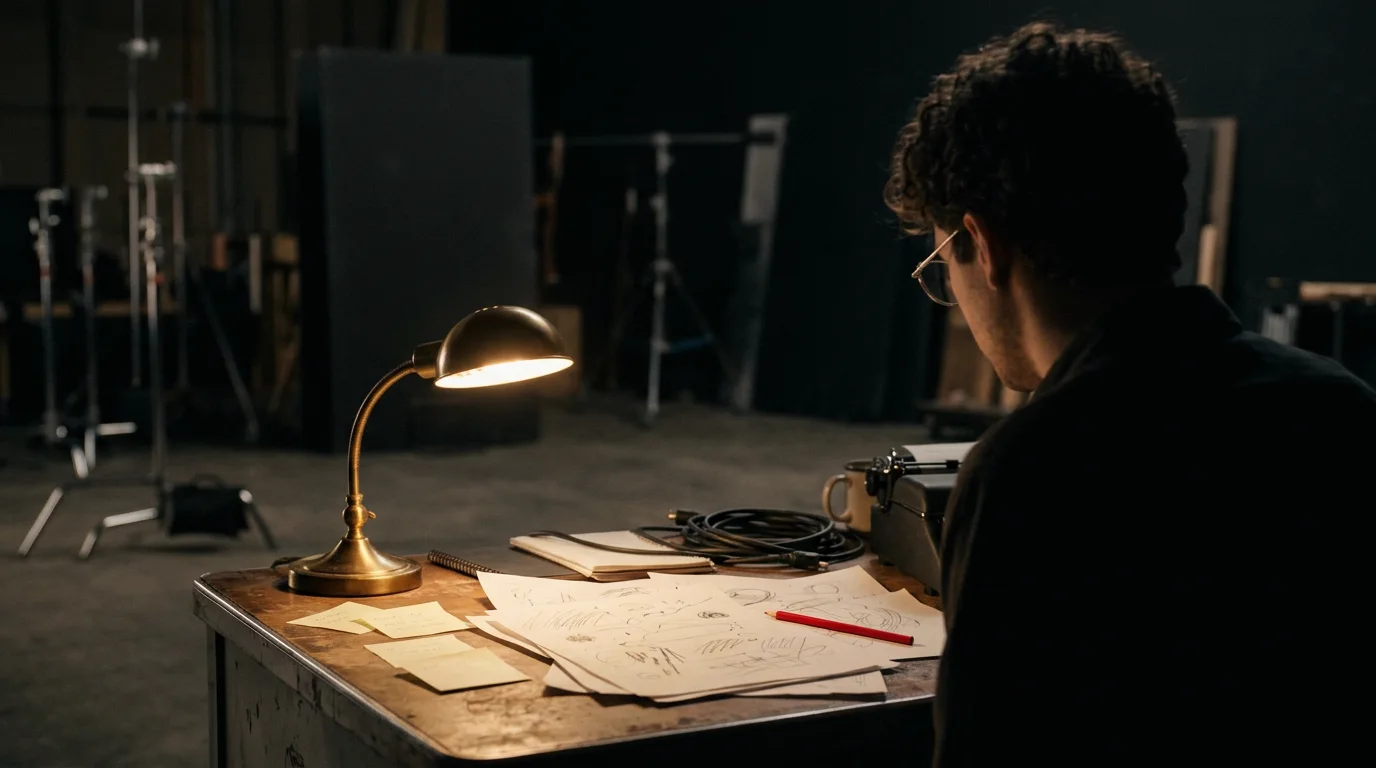
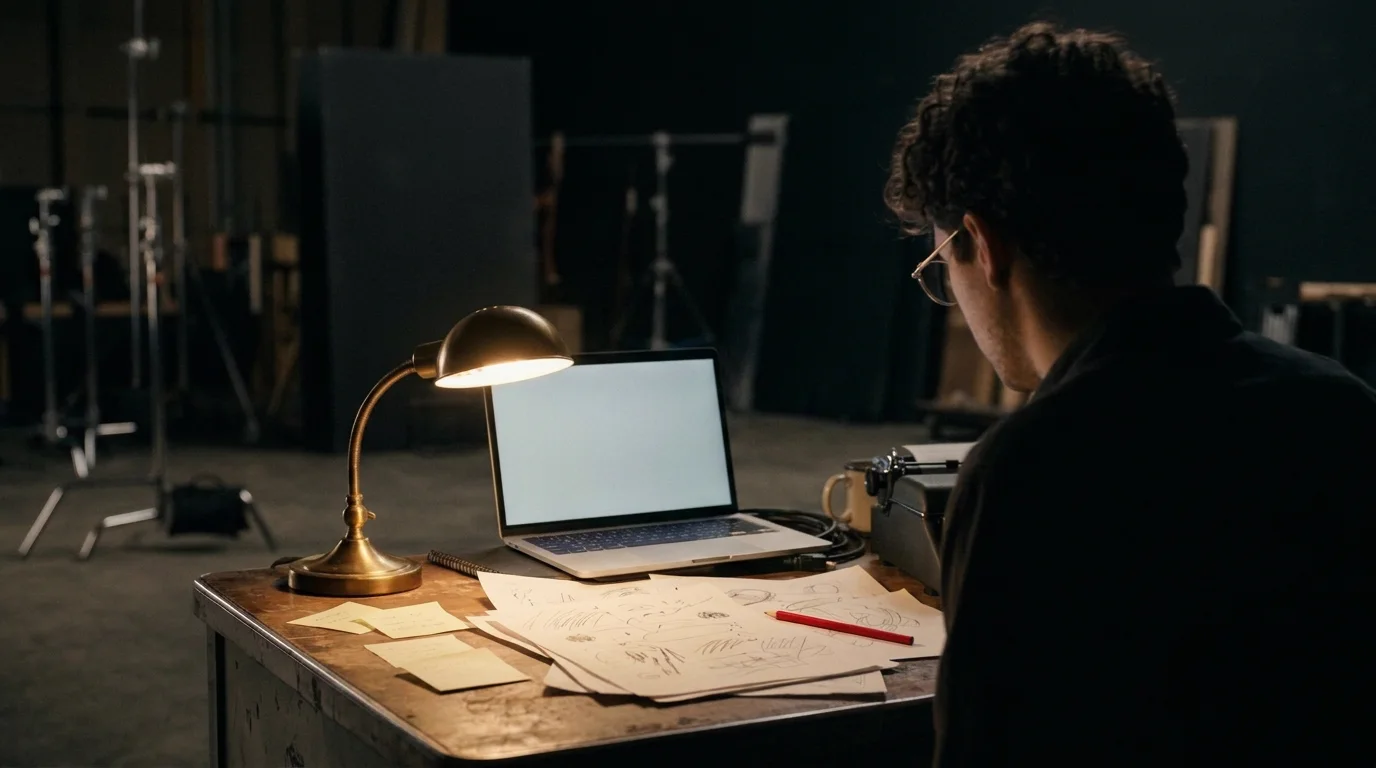
feat: laptop dengan rapat Google Meet di meja bab 1
Styleframe bab 1 diganti versi berlaptop (edit Flow, 0 kredit), layarnya
diisi tangkapan Meet asli dari akun sendiri, kap lampu tetap di depan
layar lewat garis potong. Peta kedalaman dan versi Ringan dibuat ulang.

diff --git a/components/cerita/naskah.js b/components/cerita/naskah.js
@@ -18,7 +18,7 @@ const TERBANG = 0.24;
 
 export const BABAK = [
   { id: "pembuka", bobot: 0.9 },
-  { id: "ide", bobot: 1.2, gambar: "01-ide", kamera: { dari: { x: 0.45, y: 0.6, s: 1 }, ke: { x: 0.42, y: 0.72, s: 1.35 } }, hp: 0.62 },
+  { id: "ide", bobot: 1.2, gambar: "01-ide", ringan: "01-ide-layar", kamera: { dari: { x: 0.45, y: 0.6, s: 1 }, ke: { x: 0.42, y: 0.72, s: 1.35 } }, hp: 0.62 },
   { id: "rencana", bobot: 1, gambar: "02-naskah", ringan: "02-naskah-layar", kamera: { dari: { x: 0.4, y: 0.55, s: 1.25 }, ke: { x: 0.45, y: 0.4, s: 1.05 } }, hp: 0.4 },
   { id: "bentuk", bobot: 1.4, gambar: "03-storyboard", ringan: "03-storyboard-layar", kamera: { dari: { x: 0.12, y: 0.45, s: 1.4 }, ke: { x: 0.62, y: 0.45, s: 1.15 } }, hp: 0.3 },
   { id: "fondasi", bobot: 1.2, gambar: "04-set", kamera: { dari: { x: 0.5, y: 0.3, s: 1.3 }, ke: { x: 0.45, y: 0.55, s: 1.6 } }, hp: 0.46 },

diff --git a/components/cerita/dunia.js b/components/cerita/dunia.js
@@ -20,6 +20,15 @@ const CELAH = { x: [0.41, 0.59], y: [0.19, 0.63] };
 // Satu panel memakai satu jenis. Asal tangkapan di public/assets/cerita/PROVENANCE.md.
 const UKURAN = [1376, 768];
 const LAYAR = {
+  "01-ide": [
+    {
+      // Rapat Google Meet di laptop meja: keluhan diceritakan lewat panggilan.
+      src: "layar-01",
+      sudut: [[490, 367], [714, 359], [730, 504], [505, 525]],
+      // Tepi bawah kap lampu yang menutupi pojok kiri atas layar.
+      potong: [[490, 378], [575, 360]],
+    },
+  ],
   "02-naskah": [
     {
       src: "kertas-02",

diff --git a/public/assets/cerita/PROVENANCE.md b/public/assets/cerita/PROVENANCE.md
@@ -38,3 +38,13 @@ shader yang sama (jenis "kertas": tinta dikalikan ke warna kertas) dan dipanggan
 | sketsa-03a.webp | `layar-05.webp` (Beranda Coderoach OS), edgedetect lalu negate, 560x350 | Garis pensil di layar sketsa laptop bab 3 |
 | sketsa-03b.webp | `public/assets/demo/d-day-hp.mp4` detik 3, edgedetect lalu negate, 300x600 | Garis pensil di layar sketsa ponsel bab 3 |
 | 02-naskah-layar.webp, 03-storyboard-layar.webp | styleframe + artefak di atas | Mode Ringan |
+
+**Bab 1, laptop dengan Google Meet (12 Nov 2026).**
+- `01-ide.webp` diganti versi berlaptop: edit Nano Banana 2.1 di Google Flow (project "Nov 10 - 23:54",
+  dari varian b `2a2c9306`, hasil `a4c69078`), 0 kredit, akun Google AI Pro Farrez. Prompt meminta
+  semua tetap sama dan hanya menambah satu laptop berlayar polos. Buatan AI. Asli di
+  `desain/cerita-v3/styleframe/01-ide-laptop.jpg`.
+- `layar-01.webp`: tangkapan Google Meet asli dari akun Farrez, rapat instan tanpa undangan, kamera
+  dan mikrofon mati, hanya ubin "Farrez". Kode rapat dan jam dipotong; rapat ditinggalkan sesudahnya.
+- `dalam-01-ide.webp` dibuat ulang dari gambar baru (Depth Anything V2 Small lokal, sigma 4).
+- `01-ide-layar.webp`: versi Ringan.

diff --git a/desain/cerita-v3/PROVENANCE-gambar.md b/desain/cerita-v3/PROVENANCE-gambar.md
@@ -26,3 +26,12 @@
 | 10 Rilis | `10-rilis.webp` | a | Ban berjalan, jewel case, rak CD dengan tirai merah |
 
 Semua 20 varian lolos pemeriksaan tulisan dan logo: tidak ada huruf yang terbaca, tidak ada watermark terlihat.
+
+## Edit bab 1 (12 Nov 2026)
+
+`styleframe/01-ide-laptop.jpg`: Nano Banana 2.1 edit di project yang sama, dari varian b (`2a2c9306`),
+hasil `a4c69078`, 0 kredit (saldo Flow 376 sebelum dan sesudah, reset 17 Nov). Prompt: "Keep everything
+in this image exactly the same ... Only add one open silver laptop standing on the desk behind the
+sketches ... The laptop screen is a plain, evenly lit, very light grey rectangle with nothing on it".
+Diperiksa: tidak ada tulisan, logo, atau perubahan lain yang terlihat. Layarnya diisi tangkapan Meet
+asli lewat shader (lihat public/assets/cerita/PROVENANCE.md).
